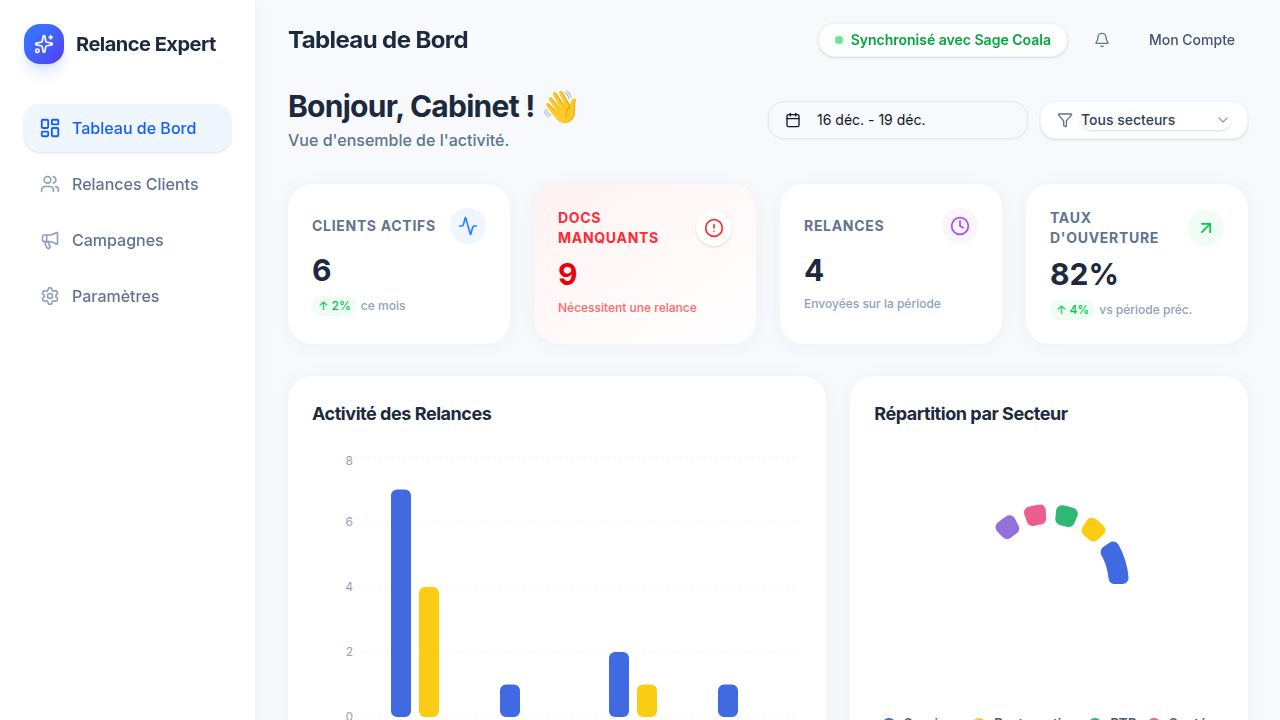
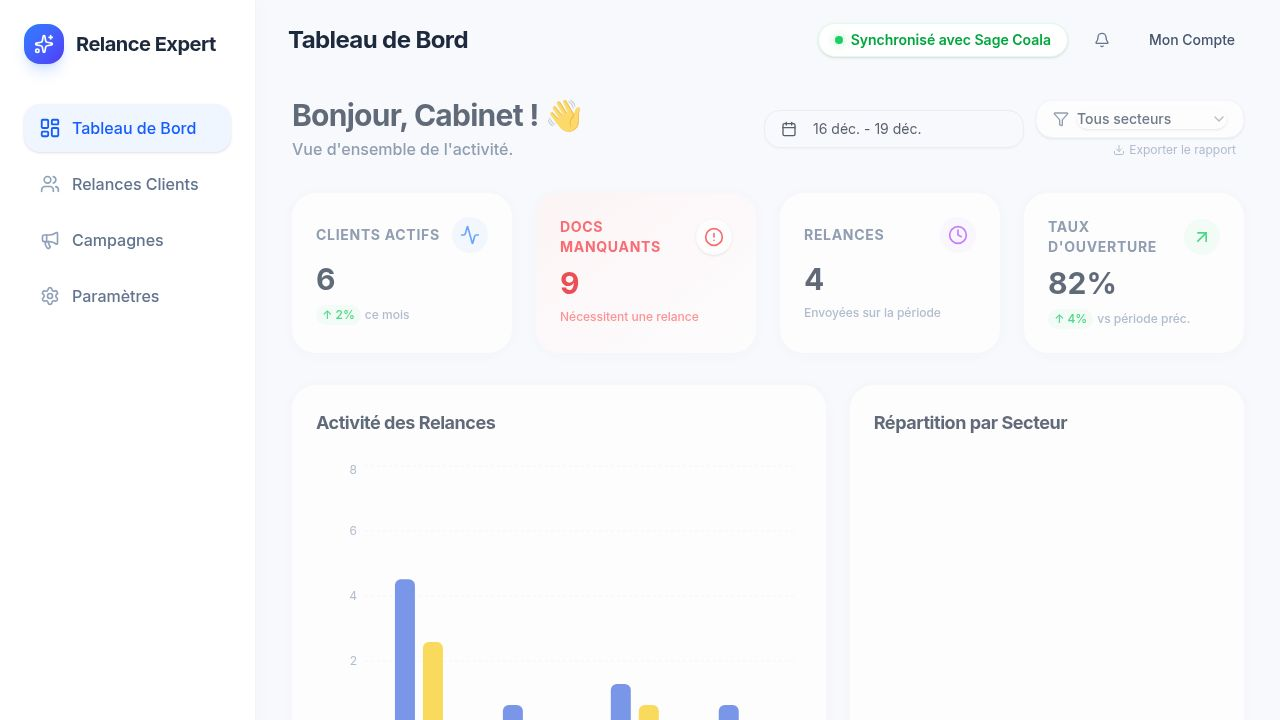
Replace dashboard export button with a text link
Refactor the dashboard export functionality in `client/src/pages/dashboard.tsx` to replace the prominent "Exporter" button with a less intrusive text link, adhering to recent design adjustments.

Replit-Commit-Author: Agent
Replit-Commit-Session-Id: c0703b9d-89b6-4631-8607-b3d2e10f8ac2
Replit-Commit-Checkpoint-Type: full_checkpoint
Replit-Commit-Event-Id: 6fa0779e-037b-4f23-a3a5-cc9beae1df55
Replit-Commit-Screenshot-Url: https://storage.googleapis.com/screenshot-production-us-central1/aa67c514-b724-4d5a-8a85-482ac77d083c/c0703b9d-89b6-4631-8607-b3d2e10f8ac2/Q2lkr5b
Replit-Helium-Checkpoint-Created: true

diff --git a/client/src/pages/dashboard.tsx b/client/src/pages/dashboard.tsx
@@ -373,28 +373,29 @@ Votre Expert-Comptable`
               </Popover>
             </div>
 
-             <div className="flex items-center gap-2 bg-white dark:bg-slate-900 px-4 py-2 rounded-2xl shadow-sm border border-slate-100 dark:border-slate-800">
-               <Filter className="h-4 w-4 text-slate-500 dark:text-slate-400" />
-               <Select value={sectorFilter} onValueChange={setSectorFilter}>
-                 <SelectTrigger className="border-none h-auto p-0 focus:ring-0 w-[150px] font-medium text-slate-700 dark:text-slate-300 bg-transparent">
-                   <SelectValue placeholder="Tous secteurs" />
-                 </SelectTrigger>
-                 <SelectContent className="rounded-xl border-slate-100 dark:border-slate-800 dark:bg-slate-900 shadow-lg">
-                   <SelectItem value="All" className="rounded-lg cursor-pointer dark:text-slate-300 dark:focus:bg-slate-800">Tous secteurs</SelectItem>
-                   {uniqueSectors.map(s => (
-                     <SelectItem key={s} value={s} className="rounded-lg cursor-pointer dark:text-slate-300 dark:focus:bg-slate-800">{s}</SelectItem>
-                   ))}
-                 </SelectContent>
-               </Select>
+             <div className="flex flex-col items-end gap-1">
+               <div className="flex items-center gap-2 bg-white dark:bg-slate-900 px-4 py-2 rounded-2xl shadow-sm border border-slate-100 dark:border-slate-800">
+                 <Filter className="h-4 w-4 text-slate-500 dark:text-slate-400" />
+                 <Select value={sectorFilter} onValueChange={setSectorFilter}>
+                   <SelectTrigger className="border-none h-auto p-0 focus:ring-0 w-[150px] font-medium text-slate-700 dark:text-slate-300 bg-transparent">
+                     <SelectValue placeholder="Tous secteurs" />
+                   </SelectTrigger>
+                   <SelectContent className="rounded-xl border-slate-100 dark:border-slate-800 dark:bg-slate-900 shadow-lg">
+                     <SelectItem value="All" className="rounded-lg cursor-pointer dark:text-slate-300 dark:focus:bg-slate-800">Tous secteurs</SelectItem>
+                     {uniqueSectors.map(s => (
+                       <SelectItem key={s} value={s} className="rounded-lg cursor-pointer dark:text-slate-300 dark:focus:bg-slate-800">{s}</SelectItem>
+                     ))}
+                   </SelectContent>
+                 </Select>
+               </div>
+               <button 
+                  onClick={handleExportDashboard}
+                  className="text-xs text-slate-400 hover:text-blue-600 dark:hover:text-blue-400 hover:underline cursor-pointer flex items-center gap-1 no-export transition-colors pr-2"
+               >
+                  <Download className="h-3 w-3" />
+                  Exporter le rapport
+               </button>
              </div>
-             
-             <Button 
-                onClick={handleExportDashboard}
-                className="bg-slate-900 text-white hover:bg-slate-800 dark:bg-blue-600 dark:hover:bg-blue-700 rounded-2xl shadow-lg shadow-slate-900/20 px-4 no-export"
-             >
-                <Download className="h-4 w-4 mr-2" />
-                Exporter
-             </Button>
           </div>
         </div>
 
